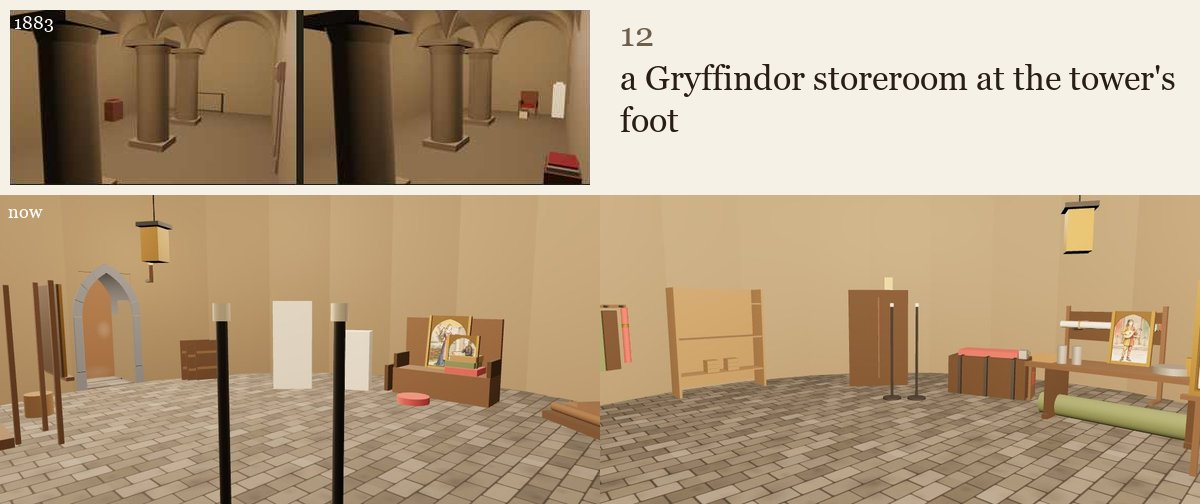
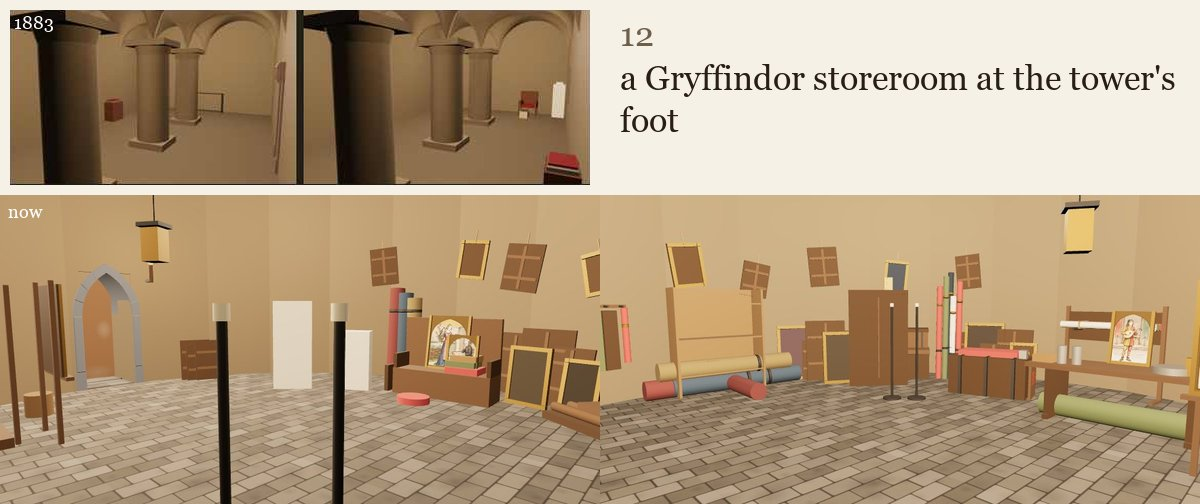
Gryffindor storeroom filled (shell.html), room 12 image

diff --git a/page/shell.html b/page/shell.html
@@ -8927,6 +8927,87 @@ var STORE = PLACE !== 'drum-room-g' || !shell ? null : (function () {
   cyl(LN, 0.006, 2.1, 0, 3.35, 0, iron); box(LN, 0.2, 0.34, 0.2, 0, 2.15, 0, brass); box(LN, 0.12, 0.2, 0.12, 0, 2.15, 0, mat(0xe8d49a, 0.6)); box(LN, 0.26, 0.04, 0.26, 0, 2.35, 0, iron);
   var RG = grp(45.48, 5.19, toC(45.48, 5.19));
   cyl(RG, 0.14, 1.5, 0, 0.75, 0, mat(0x7a3a3a, 0.95)); cyl(RG, 0.145, 0.06, 0, 0.35, 0, iron); cyl(RG, 0.145, 0.06, 0, 1.15, 0, iron);
+  /* req 2208 and 2217, n 12 (Godric, 31 October 2026, 10.29 pm: "fill the room with MORE of what is already there"): a century's put-away
+     things, crowded against the round wall with the way from the door (bearings 340 to 20) left clear. By bearing from the room's
+     centre, r 4.4 to 4.85 against the wall: carpets lying in a pile at 182; portraits stacked several deep, leaning, some face out,
+     some face to the wall, some at a slant, at 208, 250, 308 and 104; two chests, one on the other, at 227; a trunk left open and
+     half filled at 325; rolled banners standing in a bundle at 238; rolled carpets standing at 72; and frames hung
+     crooked on the wall above (backs out on some). Two face-out frames hold no sitter and are named storeroom-sitter-place-1 and -2
+     (a dull ground only): People and Events fill them with the grumbling sitters (req 2209). Plain, still, nothing glows */
+  var CAN = [0x2f2a22, 0x3a4030, 0x4a3626, 0x2e3744, 0x4a3a40, 0x37312a];
+  function pol(b, r) { var a = b * Math.PI / 180; return [C[0] + r * Math.sin(a), C[1] + r * Math.cos(a)]; }
+  function polg(b, r, z) { var p = pol(b, r); return grp(p[0], p[1], toC(p[0], p[1]), z); }
+  /* one portrait on the floor or a stack: mode 'face' (gilt frame, a dull canvas), 'back' (the stretcher's back to the room) */
+  function leanFrame(g, k, x, w, h, tilt, yaw, mode, cx) {
+    var s = new THREE.Group(); s.position.set(x, 0, 0.1 + 0.075 * k); s.rotation.y = yaw; s.rotateX(-tilt); g.add(s);
+    box(s, w, h, 0.03, 0, h / 2, 0, oakD);
+    if (mode === 'face') {
+      box(s, w - 0.1, h - 0.1, 0.012, 0, h / 2, 0.02, mat(cx, 0.9));
+      [[w, 0.06, 0, 0.03], [w, 0.06, 0, h - 0.03], [0.06, h, -w / 2 + 0.03, h / 2], [0.06, h, w / 2 - 0.03, h / 2]].forEach(function (f) { box(s, f[0], f[1], 0.04, f[2], f[3], 0.02, gilt); });
+    } else {
+      box(s, w * 0.92, 0.05, 0.02, 0, h * 0.28, 0.025, oak); box(s, w * 0.92, 0.05, 0.02, 0, h * 0.72, 0.025, oak);
+      box(s, 0.05, h * 0.92, 0.02, 0, h / 2, 0.025, oak);
+    }
+    return s;
+  }
+  function stack(b, r, n, mix) {
+    var g = polg(b, r), xs = 0;
+    for (var k = 0; k < n; k++) {
+      var m = mix[k % mix.length], w = m[0], h = m[1];
+      var s = leanFrame(g, k, -0.3 * ((n - 1) / 2) + 0.3 * k + (k % 2 ? 0.05 : -0.04), w, h, m[2], m[3], m[4], CAN[(k + Math.round(b)) % CAN.length]);
+      s.userData.k = k;
+    }
+    return g;
+  }
+  /* the portraits: width, height, lean, yaw, mode */
+  stack(208, 4.72, 6, [[0.7, 1.1, 0.16, 0.05, 'face'], [0.55, 0.8, 0.2, -0.08, 'back'], [0.8, 1.2, 0.13, 0.03, 'back'], [0.6, 0.9, 0.22, -0.04, 'face'], [0.75, 1.0, 0.12, 0.1, 'back'], [0.5, 0.7, 0.24, -0.06, 'face']]);
+  stack(250, 4.72, 5, [[0.65, 0.95, 0.15, -0.05, 'back'], [0.8, 1.15, 0.12, 0.06, 'face'], [0.55, 0.75, 0.22, 0.09, 'back'], [0.7, 1.05, 0.18, -0.1, 'back'], [0.5, 0.8, 0.14, 0.03, 'face']]);
+  stack(308, 4.72, 5, [[0.8, 1.15, 0.13, 0.04, 'back'], [0.6, 0.9, 0.2, -0.07, 'face'], [0.7, 1.0, 0.15, 0.1, 'back'], [0.5, 0.7, 0.24, -0.03, 'back'], [0.75, 1.1, 0.12, -0.08, 'face']]);
+  stack(104, 4.72, 5, [[0.7, 1.05, 0.14, -0.04, 'back'], [0.55, 0.8, 0.2, 0.08, 'face'], [0.8, 1.15, 0.12, 0.02, 'back'], [0.6, 0.9, 0.18, -0.09, 'back'], [0.5, 0.75, 0.22, 0.06, 'face']]);
+  /* the two places for sitters: a dull ground in a gilt frame, nothing painted; named for People and Events */
+  [[208, 4.62, 1.0, 'storeroom-sitter-place-1'], [104, 4.62, 0.9, 'storeroom-sitter-place-2']].forEach(function (q) {
+    var g = polg(q[0], q[1]); var s = leanFrame(g, 7, 0.0, 0.62, q[2], 0.1, 0.0, 'face', 0x3b352a);
+    s.children.forEach(function (c) { c.name = q[3]; });
+  });
+  /* the carpets lying in a pile at 175, four rolls and one across; the banners standing in a bundle at 248; the carpets standing at 72 */
+  var CP = polg(182, 4.62, 0); var rug1 = mat(0x6a3a3a, 0.95), rug2 = mat(0x3e4e5e, 0.95), rug3 = mat(0x7a6a48, 0.95);
+  [[-0.2, 0.15, rug1], [0.2, 0.15, rug2], [0.0, 0.42, rug3]].forEach(function (c) { cyl(CP, 0.16, 2.3, c[0] * 1.0, c[1], 0.1, c[2], 'z'); cyl(CP, 0.162, 0.05, c[0] + 0.5, c[1], 0.1, iron, 'z'); });
+  cyl(CP, 0.14, 1.0, 0.0, 0.14, 0.8, rug1, 'x');
+  var BU = polg(238, 4.55, 0);
+  [[-0.2, 1.9, wool], [-0.07, 2.1, green], [0.07, 1.7, sheetM], [0.2, 2.0, wool], [0.0, 2.2, mat(0x2e3744, 0.95)]].forEach(function (c, i) {
+    var q = new THREE.Group(); q.position.set(c[0], 0, 0.14 + 0.03 * (i % 2)); q.rotateX(-0.07 - 0.02 * i); BU.add(q);
+    cyl(q, 0.06, c[1], 0, c[1] / 2, 0, c[2]); cyl(q, 0.062, 0.04, 0, c[1] * 0.8, 0, gilt); cyl(q, 0.062, 0.04, 0, c[1] * 0.3, 0, iron);
+  });
+  var SC = polg(72, 4.7, 0);
+  [-0.18, 0.0, 0.18].forEach(function (u, i) {
+    var q = new THREE.Group(); q.position.set(u, 0, 0.16); q.rotateX(-0.1 + 0.03 * i); SC.add(q);
+    cyl(q, 0.15, 1.85 - 0.1 * i, 0, (1.85 - 0.1 * i) / 2, 0, [rug1, rug2, rug3][i]); cyl(q, 0.152, 0.05, 0, 1.4, 0, iron);
+  });
+  /* the chests: two strapped, one on the other, at 201; a trunk left open and half filled, and a chest, at 319 */
+  var CH = polg(227, 4.6, 0);
+  box(CH, 1.1, 0.5, 0.55, -0.1, 0.25, 0.05, oakD); box(CH, 1.12, 0.1, 0.57, -0.1, 0.55, 0.05, oak);
+  [-0.4, 0.2].forEach(function (u) { box(CH, 0.05, 0.52, 0.56, u, 0.25, 0.05, iron); });
+  box(CH, 0.85, 0.42, 0.45, 0.0, 0.76, 0.05, oak); box(CH, 0.87, 0.07, 0.47, 0.0, 0.99, 0.05, oakD);
+  [-0.3, 0.3].forEach(function (u) { box(CH, 0.04, 0.44, 0.46, u, 0.76, 0.05, iron); });
+  var TR = polg(325, 4.5, 0);
+  box(TR, 0.95, 0.45, 0.55, 0.0, 0.225, 0.05, oakD);
+  box(TR, 0.95, 0.05, 0.5, 0.0, 0.35, 0.05, sheetM);
+  var lid = new THREE.Group(); lid.position.set(0, 0.45, -0.225); lid.rotateX(-1.2); TR.add(lid);
+  box(lid, 0.96, 0.05, 0.55, 0, 0, 0.275, oak);
+  box(TR, 0.4, 0.18, 0.3, -0.15, 0.5, 0.05, wool); box(TR, 0.3, 0.12, 0.25, 0.2, 0.5, 0.0, green);
+    /* the frames hung crooked on the wall above: a nail, a cord, a slant; some with their backs to the room */
+  [[176, 2.2, 0.55, 0.75, 0.12, 'face'], [190, 2.0, 0.5, 0.65, -0.18, 'back'], [206, 2.3, 0.6, 0.8, 0.08, 'back'], [224, 2.1, 0.5, 0.7, -0.1, 'face'], [242, 2.2, 0.5, 0.7, 0.1, 'back'],
+   [300, 2.2, 0.6, 0.85, 0.14, 'back'], [314, 1.95, 0.5, 0.7, -0.07, 'face'], [96, 2.15, 0.6, 0.8, -0.15, 'back'], [110, 2.0, 0.5, 0.65, 0.2, 'face'],
+   [66, 2.3, 0.55, 0.75, 0.09, 'back'], [86, 2.35, 0.5, 0.7, -0.12, 'face']].forEach(function (q, i) {
+    var g = polg(q[0], 4.93, q[1]), s = new THREE.Group(); s.rotation.z = q[4]; g.add(s);
+    var w = q[2], h = q[3];
+    box(s, w, h, 0.03, 0, 0, 0.02, oakD);
+    if (q[5] === 'face') {
+      box(s, w - 0.1, h - 0.1, 0.012, 0, 0, 0.04, mat(CAN[i % CAN.length], 0.9));
+      [[w, 0.06, 0, h / 2 - 0.03], [w, 0.06, 0, -h / 2 + 0.03], [0.06, h, -w / 2 + 0.03, 0], [0.06, h, w / 2 - 0.03, 0]].forEach(function (f) { box(s, f[0], f[1], 0.04, f[2], f[3], 0.04, gilt); });
+    } else { box(s, w * 0.9, 0.05, 0.02, 0, h * 0.22, 0.05, oak); box(s, w * 0.9, 0.05, 0.02, 0, -h * 0.22, 0.05, oak); box(s, 0.05, h * 0.9, 0.02, 0, 0, 0.05, oak); }
+    box(s, 0.015, 0.2, 0.015, 0, h / 2 + 0.08, 0.025, mat(0x8a7450, 0.95));
+  });
   /* 8 the easel, P4 on it turned to the walk (east), his right as he comes in */
   var E = grp(40.59, 4.45, [1, 0]);
   [-0.33, 0.33].forEach(function (u) { box(E, 0.05, 1.8, 0.05, u, 0.89, 0.02, oak); });   /* the front legs, behind the panel */
